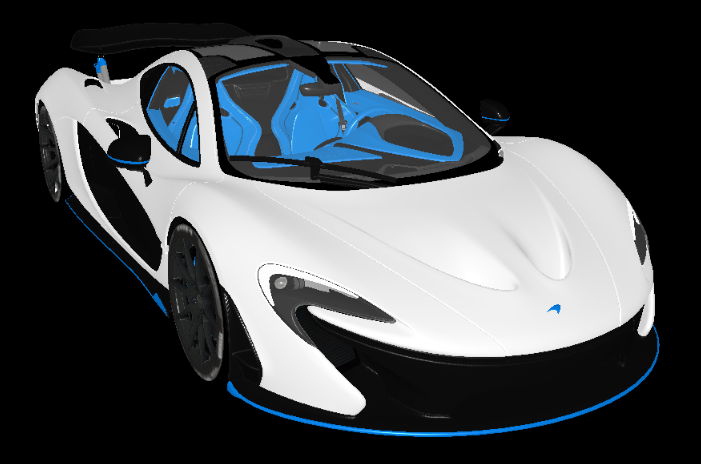
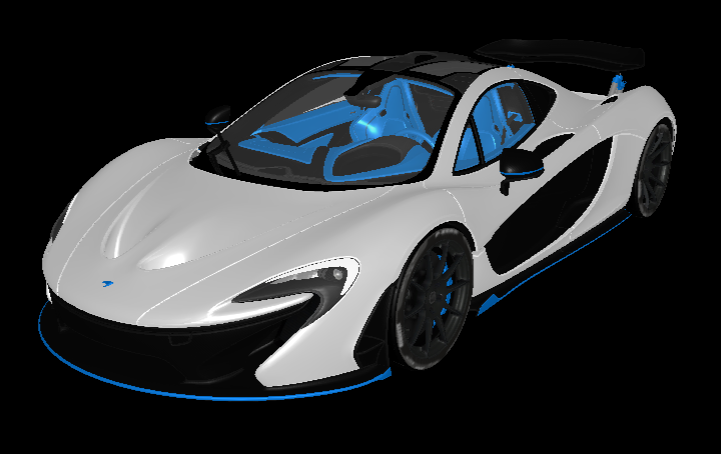
Fixed pop up msg bug and width of recently viewed cars

diff --git a/public/Pop-Up-Msg.js b/public/Pop-Up-Msg.js
@@ -2,6 +2,7 @@
 var authToken = getCookie("authToken");
 const urlParams = new URLSearchParams(window.location.search);
 const popup = urlParams.get('popup');
+var currentUrl = window.location.href;
 function setCookie(name, value, days) {
     const date = new Date();
     date.setTime(date.getTime() + (days * 24 * 60 * 60 * 1000));
@@ -30,10 +31,20 @@ function showPopup() {
     const popupContainer = document.getElementById('popup-container');
 
     // Check if the cookie exists and if it has been more than 3 days
-    if (!getCookiePopUpMsg('popupShown') || (new Date() - new Date(getCookie('popupShown'))) > (3 * 24 * 60 * 60 * 1000)) {
+    if (!getCookiePopUpMsg('popupShown') || (new Date() - new Date(getCookiePopUpMsg('popupShown'))) > (3 * 24 * 60 * 60 * 1000)) {
         setCookie('popupShown', new Date().toUTCString(), 3); // Set the cookie to remember the pop-up display time
-        if (popup !== null) {
-            popupContainer.style.display = 'block';
+        popupContainer.style.display = 'block';
+    } else {
+        if (authToken && popup !== null) {
+            urlParams.delete('popup');
+            const newUrl = currentUrl.split('?')[0] + '?' + urlParams.toString();
+            // Replace the current URL with the new one
+            window.history.replaceState({}, document.title, newUrl);
+        } else if (popup !== null) {
+            urlParams.delete('popup');
+            const newUrl = currentUrl.split('?')[0] + '?' + urlParams.toString();
+            // Replace the current URL with the new one
+            window.history.replaceState({}, document.title, newUrl);
         }
     }
 }

diff --git a/public/auto-show.html b/public/auto-show.html
@@ -281,7 +281,7 @@
                 </div>
                 <div class="car-card">
                     <div class="img-container">
-                        <img src="images/Mclaren-P1-2020.png" alt="Car 2">
+                        <img src="images/Mclaren-P1-2015.png" alt="Car 2">
                     </div>
                     <div class="car-info">
                         <h3>2015 MCLAREN P1</h3>

diff --git a/public/index.css b/public/index.css
@@ -34,7 +34,7 @@ body {
     }
 
     .slick-track .car-card {
-        min-width: 340px !important;
+        max-width: 400px !important;
     }
 }
 
